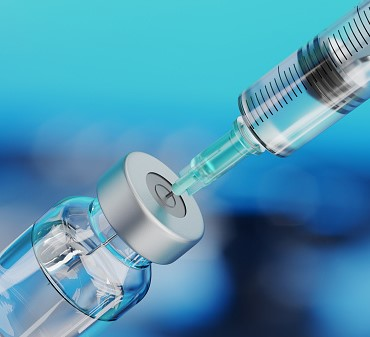
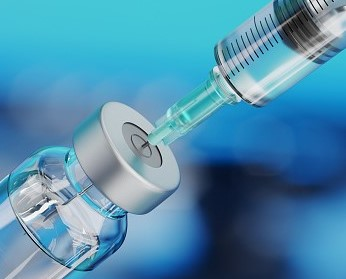
Updated other sections
Updated Laboratory, Family planning text section

diff --git a/html_sub/04_family_planning_stack.html b/html_sub/04_family_planning_stack.html
@@ -113,10 +113,25 @@
                             <div id="right-side">
                                 <div class="right-text">
                                     <h1>Healthy Family Planning</h1>
-                                    <p><a href="https://www.ncbi.nlm.nih.gov/books/NBK215219/#:~:text=According%20to%20the%20World%20Health,and%20timing%20of%20their%20births.">"According to the World Health Organization (WHO), family planning is the ability of individuals and couples to anticipate and attain their desired number of children and the spacing and timing of their births".</a> <br>At Irowa medical centre, we give professional advice on the methods,
+                                    <p><a href="https://www.ncbi.nlm.nih.gov/books/NBK215219/#:~:text=According%20to%20the%20World%20Health,and%20timing%20of%20their%20births.">"According to the World Health Organization (WHO), family planning is the ability of individuals and couples to anticipate and attain their desired number of children and the spacing and timing of their births".</a> At Irowa Medical Centre, we give professional advice on the methods,
                                         health benefits, and processes of family planning. The use of contraception prevents pregnancy-related health risks for women, girls of adolescent ages, 
                                         and when child births are systematically separated by less than two years, <a href="https://www.ncbi.nlm.nih.gov/books/NBK215219/#:~:text=According%20to%20the%20World%20Health,and%20timing%20of%20their%20births.">the infant mortality rate is 45% higher than it is when births are 2-3 years 
-                                            inbetween and 60% higher when births are four or more years apart.</a></p>
+                                            inbetween and 60% higher when births are four or more years apart.</a><br><br>
+                                            Family planning is an important aspect of reproductive healthcare that allows individuals and couples to make informed decisions about when to have children, how many children to have, and how to prevent unintended pregnancies. We offer a wide range of family planning services to meet the diverse needs of our patients:<br><br>
+                                            <strong>1. Contraceptive counseling</strong><br>
+                                                Our healthcare professionals provide comprehensive counseling on the various contraceptive methods available, including oral contraceptives, intrauterine devices (IUDs), condoms, and more. We can help you choose the method that is best suited for your lifestyle and individual needs.<br><br>
+                                            <strong>2. Contraceptive methods</strong><br>
+                                                We conduct a variety of contraceptive methods, including hormonal and non-hormonal options, that are safe and effective in preventing unintended pregnancies.<br><br>
+                                            <strong>3. Permanent contraceptive methods</strong><br>
+                                                We offer surgical contraceptive services for both men and women who have decided not to have any more children.<br><br>
+                                            <strong>4. Preconception counseling</strong><br>
+                                                Our healthcare professionals provide counseling on the importance of planning for pregnancy, including healthy lifestyle choices and the use of folic acid to prevent birth defects.<br><br>
+                                            <strong>5. Pregnancy testing</strong><br>
+                                                We offer accurate pregnancy testing to confirm whether or not you are pregnant.<br><br>
+                                            We understand that family planning is a personal decision and we are committed to providing compassionate and respectful care to all our patients. We are also committed to ensuring that our patients have access to the information and resources they need to make informed decisions about their reproductive health.<br>
+                                            If you have any questions about family planning or would like to schedule an appointment, <a href="#contact">please contact us.</a> Our healthcare professionals are here to provide the support and guidance you need to make the best decisions for your reproductive health.
+                                            
+                                        </p>
                                 </div>
                             </div>
                         </div>

diff --git a/html_sub/01_immunization_stack.html b/html_sub/01_immunization_stack.html
@@ -130,7 +130,7 @@
                                             Irowa Medical Centres offers a variety of vaccines to protect against many different diseases, including: Bacille Calmette-Guerin (BCG), Hapatitis A and B, Oral poliovirus vaccines (OPV), Pentavalent,  Packed Cell Volume (PCV), Inactivated Polio Vaccine (IPV), Vitamin A, Measles, Yellow Fever, Meningitis, Measles, Mumps, and Rubella (MMR), Chicken Pox, Cholera, Typhoid Vaccine, Flu, Pneumococcal Conjugate Vaccine (PCV13) and others<br><br>
                                         <strong>7. How do I schedule an immunization appointment?</strong><br>
                                             If you are interested in getting vaccinated, please <a href="#contact-left">contact us</a> to schedule an appointment with one of our healthcare providers. During your appointment, our professional health care provider will review your medical history and recommend the appropriate vaccines based on your age, health status, and other factors.
-                                            We understand that keeping your child healthy is a top priority, and immunizations play a crucial role in achieving that goal. At Irowa Medical Centres, we offer a wide range of immunizations to keep your child healthy and protected. Our knowledgeable and friendly staff are here to answer any questions you may have about the immunization process. Thank you for choosing our Medical Centre for your child's healthcare needs!
+                                            We understand that keeping your child healthy is a top priority, and immunizations play a crucial role in achieving that goal. At Irowa Medical Centres, we offer a wide range of immunizations to keep your child healthy and protected. Our knowledgeable and friendly staff are here to answer any questions you may have about the immunization process.<br><br>Thank you for choosing our Medical Centre for your child's healthcare needs!
                                     </p>
                                 </div><br><br>
                                 <!--div id="immz-btn">

diff --git a/index.html b/index.html
@@ -1280,9 +1280,7 @@
                                     <div class="tab-bg">
                                         <h2>03</h2>
                                         <h3>Laboratory Diagnosis</h3>
-                                        <p>Irowa Medical Centre enhances the lives of the people we serve by
-                                            providing access to high value,
-                                            patient-centered care in collaboration with those who share our values.</p>
+                                        <p>Our state-of-the-art laboratory provides a wide range of services to support your healthcare needs. We are committed to providing accurate, reliable and timely..</p>
                                         <div id="services-02-btn-03">
                                             <a class="btn btn-general btn-yellow" href="html_sub/03_laboratory_stack.html" title="Begin now"
                                                 role="button">BEGIN NOW</a>

diff --git a/css/css_sub/responsive_04_family_planning_stack.css b/css/css_sub/responsive_04_family_planning_stack.css
@@ -36,6 +36,10 @@
 /* Medium Device (Landscape tablets and Medium Laptops) */
 @media (min-width: 992px) and (max-width: 1199px) {
 
+    #family {
+        height: 1250px;
+    }
+
     .left-pic img {
         width: 590px;
         height: 285px;
@@ -56,6 +60,10 @@
 /* Small Device (Portable tablets and Small Laptops) */
 @media (min-width: 768px) and (max-width: 991px) {
 
+    #family {
+        height: 2500px;
+    }
+
     /*left, now top section*/
     #family-content .col-md-4 {
         width: 900px;
@@ -65,8 +73,8 @@
         position: relative;
         width: 400px;
         height: 300px;
-        top: 60px;
-        left: -10px;
+        top: -20px;
+        left: -30px;
         -webkit-box-shadow: 0 0 10px 0 rgba(0, 0, 0, 0.3);
         box-shadow: 0 0 10px 0 rgba(0, 0, 0, 0.3);
     }
@@ -76,7 +84,7 @@
         position: relative;
         height: 230px;
         width: 800px;
-        top: 50px;
+        top: 10px;
         background: #fff;
     }
         

diff --git a/css/css_sub/responsive_03_laboratory_stack.css b/css/css_sub/responsive_03_laboratory_stack.css
@@ -37,6 +37,10 @@
 /* Medium Device (Landscape tablets and Medium Laptops) */
 @media (min-width: 992px) and (max-width: 1199px) {
 
+    #lab {
+        height: 1250px;
+    }
+
     .left-pic img {
         width: 590px;
         height: 285px;
@@ -57,6 +61,10 @@
 /* Small Device (Portable tablets and Small Laptops) */
 @media (min-width: 768px) and (max-width: 991px) {
 
+    #lab {
+        height: 2400px;
+    }
+
     /*left, now top section*/
     #lab-content .col-md-4 {
         width: 900px;
@@ -66,8 +74,8 @@
         position: relative;
         width: 400px;
         height: 300px;
-        top: 60px;
-        left: -10px;
+        top: -20px;
+        left: -30px;
         -webkit-box-shadow: 0 0 10px 0 rgba(0, 0, 0, 0.3);
         box-shadow: 0 0 10px 0 rgba(0, 0, 0, 0.3);
     }
@@ -77,7 +85,7 @@
         position: relative;
         height: 230px;
         width: 800px;
-        top: 50px;
+        top: 10px;
         background: #fff;
     }
         

diff --git a/css/css_sub/style_03_laboratory_stack.css b/css/css_sub/style_03_laboratory_stack.css
@@ -78,7 +78,7 @@ section {
 ========================================= */
 #lab {
     background: none;
-    height: 1350px;
+    height: 1600px;
 }
 
 #lab-bg-pic {
@@ -106,20 +106,17 @@ section {
     z-index: -1;
 }
 
-#lab-content .col-md-4 {
-    padding-right: 0;
-}
-
 #lab-content .col-md-8 {
     padding-left: 0;
+    right: 15px;
+    top: -30px;
 }
 
 .left-pic img {
     width: 590px;
-    height: 270px;
+    height: 303px;
     -webkit-box-shadow: 0 0 10px 0 rgba(0, 0, 0, 0.3);
     box-shadow: 0 0 10px 0 rgba(0, 0, 0, 0.3);
-    border-radius: 20px;
 }
 
 #right-side {
@@ -131,8 +128,8 @@ section {
 
 .right-text h1 {
     color: #000;
-    font-size: 30px;
-    font-weight: 500;
+    font-size: 48px;
+    font-weight: 200;
     margin: 50px 0 20px 20px;
 }
 
@@ -140,6 +137,8 @@ section {
     color: #000;
     font-size: 15px;
     margin: 40px 20px 20px 20px;
+    text-align: justify;
+    line-height: 30px;
 }
 
 /*#bill-btn {

diff --git a/html_sub/03_laboratory_stack.html b/html_sub/03_laboratory_stack.html
@@ -102,7 +102,7 @@
                         <!-- Left picture -->
                         <div class="col-md-4 col-sm-4 wow slideInLeft" data-wow-duration="2s" >
                             <div class="left-pic">
-                                <img src="../css/img2/background/immunization_centre.png" alt="Laboratory Diagnostics" class="img-responsive">
+                                <img src="../css/img2/background/laboratory03.jpg" alt="Laboratory Diagnostics" class="img-responsive">
                             </div>                                
                         </div>
 

diff --git a/css/css_sub/style_04_family_planning_stack.css b/css/css_sub/style_04_family_planning_stack.css
@@ -78,7 +78,7 @@ section {
 ========================================= */
 #family {
     background: none;
-    height: 100%;
+    height: 1300px;
 }
 
 #family-bg-video {
@@ -106,12 +106,11 @@ section {
     z-index: -1;
 }
 
-#family-content .col-md-4 {
-    padding-right: 0;
-}
 
 #family-content .col-md-8 {
     padding-left: 0;
+    right: 15px;
+    top: -30px;
 }
 
 .left-pic img {
@@ -130,8 +129,8 @@ section {
 
 .right-text h1 {
     color: #000;
-    font-size: 30px;
-    font-weight: 500;
+    font-size: 48px;
+    font-weight: 200;
     margin: 50px 0 20px 20px;
 }
 
